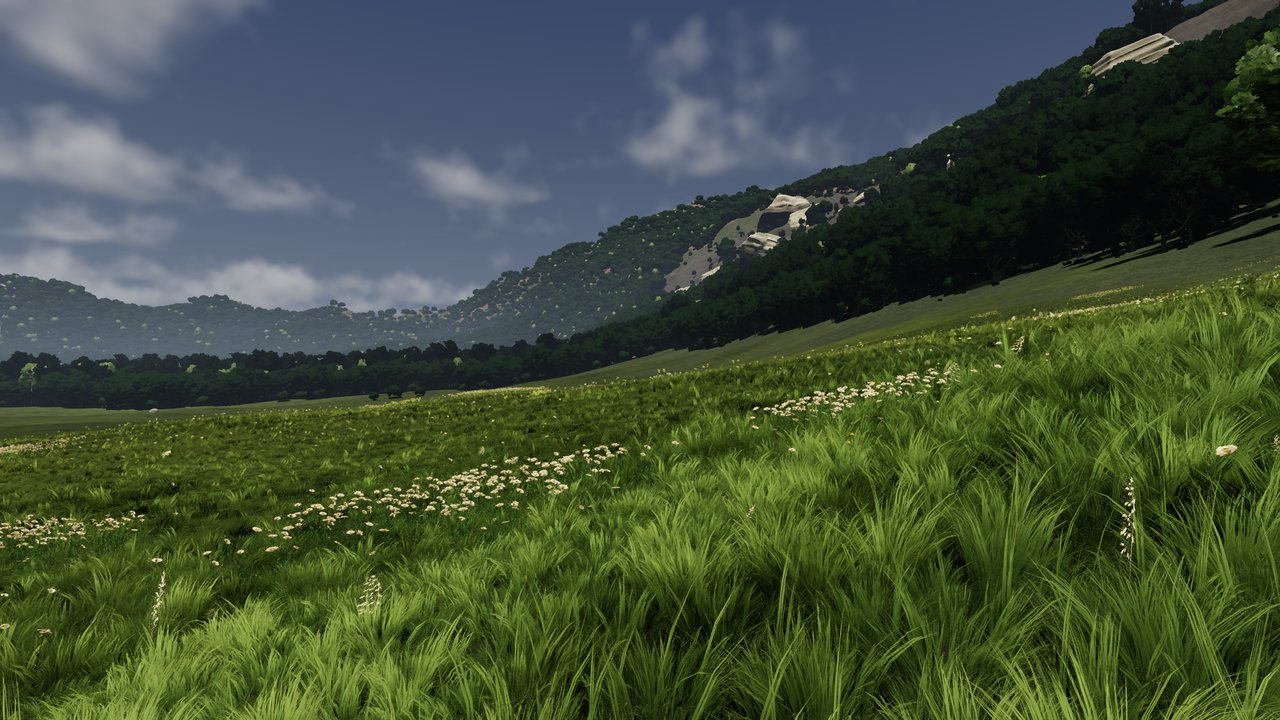
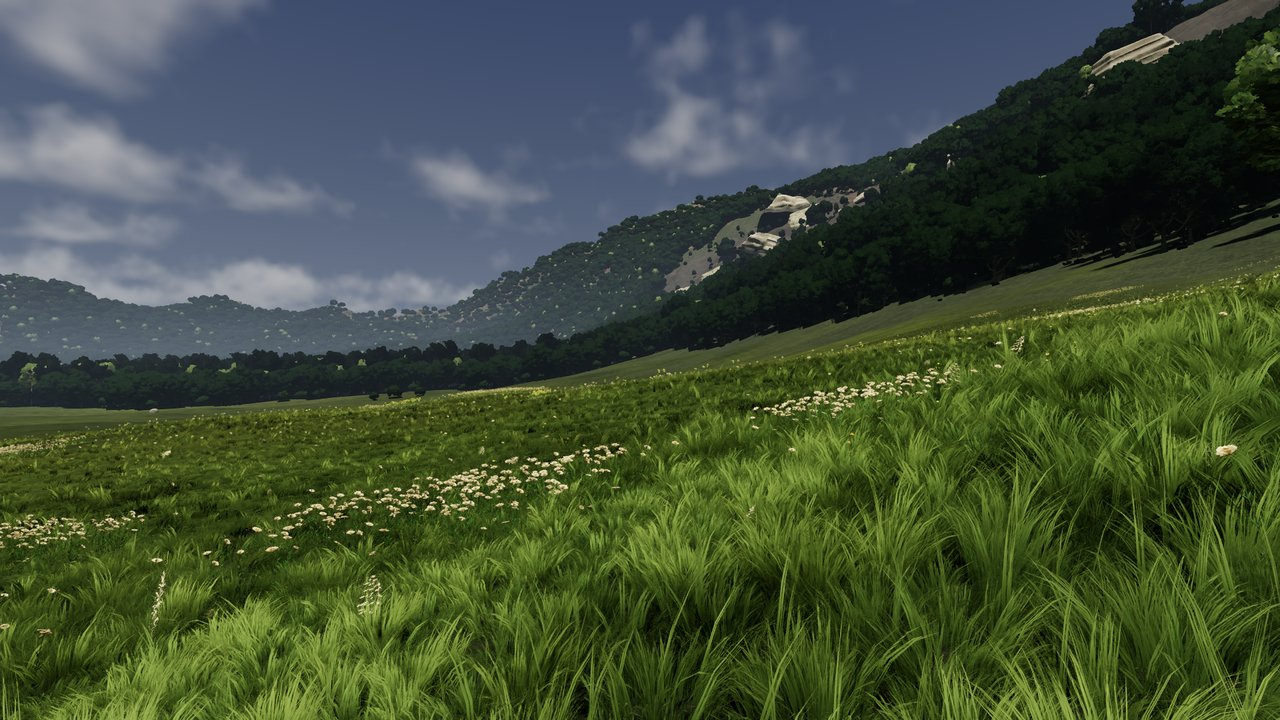
WIP r59.5: notes and shots (checks running)

diff --git a/docs/progress.md b/docs/progress.md
@@ -5060,3 +5060,18 @@ merge advice and the checklist: `docs/pending/r63-behaviour-trees.md`.
 - Still differs: no moss or staining at the outcrops' feet (they use the shared sample rock
   materials; a NoonValley variant would be needed); the far meadow is still a darker olive
   than the photo's; the forest floor between the carpets is bare litter.
+
+### Round 59.5 — outcrop feet, lighter far meadow, mossy forest floor, hero cost
+
+- **Outcrops**: NoonValley's own outcrop (`Assets/NoonValley/Rocks/NoonOutcrop.*`): the
+  sample's baked albedo retouched texel by texel from the mesh (`sample_rocks::bake::
+  texel_points`): damp moss and darker soil up its foot, moss on its ledges, water stains down
+  its faces; its own material and prefab over the sample's meshes (MeadowDemo's rocks are
+  untouched). The terrain round each slab's foot gets a dark apron of litter and mossy turf.
+  `cliffs_outcrops_r4_r5.jpg`.
+- **Far meadow**: `FAR_SHADE` 0.15 → 0.08: far 65/73/44 → 67/76/45 sRGB at eye level, the
+  crest band still matching the grass (66/73/33 against 64/74/26).
+- **Forest floor**: patches of moss (the dark turf) over the litter, strong enough to win the
+  height blend (the litter's height map hid an even mix). `forest_floor_r4_r5.jpg`.
+- **Hero cost**: grass 360 → 330 blades/m²: hero 11.8 ms GPU (parts 11.9), inside 10.7 ms
+  (parts 10.7).
